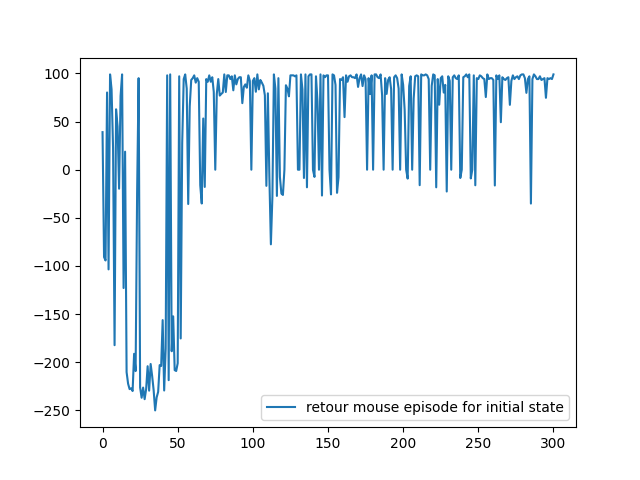
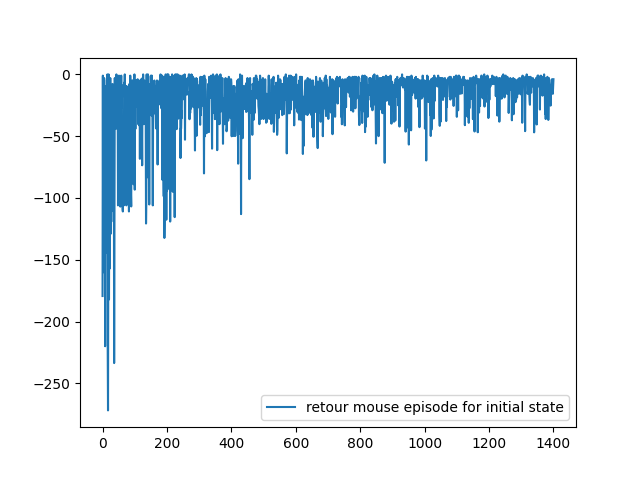
u

diff --git a/actor_critic_cat_mouse/env2.py b/actor_critic_cat_mouse/env2.py
@@ -24,24 +24,23 @@ class grid:
     def transition_cat(self,a:int):
         self.cat_previous = self.cat_pos
         self.cat_pos = self.transition_single_agent(self.cat_pos,a) 
-        reward = self.reward_cat()
-        state_cat = self.state_cat()
-        self.catch+=1.0*(self.cat_pos==self.mouse_pos)
-        return state_cat,reward
+    def transition(self,a):
+        """performs state transition for bith agents
+        """
+        self.transition_cat(a["cat"])
+        self.transition_mouse(a["mouse"])
+        reward = {"cat":self.reward_cat(),"mouse":self.reward_mouse()}
+        s_tab = {"cat":self.state_cat(),"mouse":self.state_mouse()}
+        self.count+=1
+        return s_tab,reward
     def state_mouse(self):
         return  self.mouse_pos[0]*self.Ny+self.mouse_pos[1]
     def transition_mouse(self,a:int):
         self.mouse_previous = self.mouse_pos
         self.mouse_pos = self.transition_single_agent(self.mouse_pos,a) 
-        reward = self.reward_mouse()
-        terminated = self.terminated()
-        self.count+=1
-        state_mouse = self.state_mouse()
-        return state_mouse,reward
     def terminated(self):
         "says if the episode is teminated"
-        cheese_reached = self.mouse_pos==self.target_mouse
-        terminated = cheese_reached
+        terminated = self.mouse_pos==self.target_mouse  or self.cat_pos==self.mouse_pos
         return terminated  
     def truncated(self):
         return self.count>self.max_steps
@@ -56,15 +55,12 @@ class grid:
             s_out = agent_pos
         return s_out
     def reward_cat(self):
-        self.catch+=1*(self.cat_pos==self.mouse_pos)
-        #if self.cat_pos!=self.mouse_pos:
-        #    reward = (-1.0)*((self.cat_pos[0] - self.mouse_pos[0])**2 + (self.cat_pos[1] - self.mouse_pos[1])**2)
-        reward = 0
-        if self.cat_pos==self.mouse_pos:
-            reward = 10
+        #reward = (1.0)*(self.cat_pos==self.mouse_pos)# + (-1.0)*(self.cat_pos == self.cat_previous)
+        reward = (-1.0)*((self.mouse_pos[0] - self.cat_pos[0])**2 + (self.mouse_pos[1] - self.cat_pos[1])**2)# + (-10.0)*(self.mouse_pos==self.mouse_previous)
         return reward
     def reward_mouse(self):
-        reward = (100.0)*(self.target_mouse==self.mouse_pos) + (-10.0)*(self.mouse_pos==self.mouse_previous)
+        reward = (-1.0)*((self.target_mouse[0] - self.mouse_pos[0])**2 + (self.target_mouse[1] - self.mouse_pos[1])**2)# + (-10.0)*(self.mouse_pos==self.mouse_previous)
+        #reward = (10.0)*(self.target_mouse==self.mouse_pos)# + (-10.0)*(self.mouse_pos==self.mouse_previous)
         return reward
     def grid(self):
         s_mouse = self.mouse_pos
@@ -73,5 +69,9 @@ class grid:
         T[s_mouse[0], s_mouse[1]] = 1
         T[s_cat[0], s_cat[1]] = -1
         T[self.target_mouse[0],self.target_mouse[1]] = 5
+        if self.terminated():
+            print(f"termintated, episode {self.count}")
+        print("cat", self.state_cat())
+        print("mouse", self.state_mouse())
         print(T)
         return T

diff --git a/actor_critic_cat_mouse/test.py b/actor_critic_cat_mouse/test.py
@@ -12,21 +12,20 @@ from rep import Representation, Representation_action
 from agent import Cat, Mouse
 import numpy as np
 def test(mouse:Mouse,cat:Mouse,env:grid):
-    mouse.epsilon = 0
     j =0
+    plt.close()
+    while env.terminated():
+        env.reset()
     T = env.grid()
     plt.figure()
     plt.imshow(T)
     plt.savefig(f"image/frame{j}")
-    plt.close()
-    while env.terminated():
-        env.wset()
     n = 0
     while not env.terminated():
         j+=1
         s_tab = {"cat":env.state_cat(),"mouse": env.state_mouse()}
-        _,_ = env.transition_mouse(mouse([s_tab["mouse"]]))
-        _,_ = env.transition_cat(cat(s_tab))
+        action = {"cat":cat(s_tab),"mouse":mouse([s_tab["mouse"]])}
+        env.transition(action)
         T = env.grid()
         plt.figure()
         plt.imshow(T)
@@ -34,8 +33,8 @@ def test(mouse:Mouse,cat:Mouse,env:grid):
         plt.close()
 
 if __name__=="__main__":
-    testmode = False
-    start = 0
+    testmode = True
+    start = 1400
     epsilon = .3
     gamma = .99
     nx = 4
@@ -43,30 +42,31 @@ if __name__=="__main__":
     # large learning rates implies more risk to local minima
     mouse_lr_pi = 1e-3
     mouse_lr_q = 1e-3
-    cat_lr_pi = 1e-6
-    cat_lr_q = 1e-6
+    cat_lr_pi = 1e-3
+    cat_lr_q = 1e-3
     batch_size = 32
     buffer_size = 600
     # learn Q with K iteration, allows more stability. We choose K=1 bc the system is simple.
-    K = 3
-    K_cat = 3
-    n_epochs = 300
+    K = 2
+    K_cat = 2
+    n_epochs =  3000
     loadpath = "loads"
     loadopt = "opt"
     max_steps = 30
     fact = .95
     tau = .01
+    min_eps = .1
 
     env = grid(nx,ny,max_steps = max_steps)
     env.reset()
     mouse = Mouse(env,epsilon = epsilon,buffer_size = buffer_size,lr_pi=mouse_lr_pi, lr_q=mouse_lr_q, tau=tau,K = K)
     cat = Cat(env,epsilon = epsilon, buffer_size = buffer_size, lr_pi=cat_lr_pi, lr_q=cat_lr_q,tau = tau,K = K_cat)
     if start>0:
-        mouse.epsilon = .0
-        cat.epsilon = .0
+        mouse.epsilon = .1
+        cat.epsilon = .1
         mouse.load(start)
         cat.load(start)
     if testmode:
         test(mouse,cat,env)
     else:
-        A2C(env,mouse,cat,batch_size,n_epochs,fact = fact)
+        A2C(env,mouse,cat,batch_size,n_epochs,fact = fact,min_eps=min_eps)

diff --git a/actor_critic_cat_mouse/a22c.py b/actor_critic_cat_mouse/a22c.py
@@ -36,15 +36,13 @@ def A2C(env:grid,
         return_mouse = torch.Tensor([0])
         while not env.terminated() and not env.truncated():
             a_tab = {"cat":cat(s_tab), "mouse":mouse([s_tab["mouse"]])}
-            _,reward_cat = env.transition_cat(a_tab["cat"])
-            _,reward_mouse = env.transition_mouse(a_tab["mouse"])
-            s_tab_prim = {"cat":env.state_cat(),"mouse": env.state_mouse()}
-            cat.buffer.store({"state":s_tab,"action":a_tab,"new_state":s_tab_prim,"reward":reward_cat})
-            mouse.buffer.store({"state":s_tab,"action":a_tab,"new_state":s_tab_prim,"reward":reward_mouse})
+            s_tab_prim,reward = env.transition(a_tab)
+            cat.buffer.store({"state":s_tab,"action":a_tab,"new_state":s_tab_prim,"reward":reward["cat"]})
+            mouse.buffer.store({"state":s_tab,"action":a_tab,"new_state":s_tab_prim,"reward":reward["mouse"]})
             s_tab = s_tab_prim
             n+=1
-            return_cat += reward_cat*gamma**n
-            return_mouse += reward_mouse*gamma**n
+            return_cat += reward["cat"]*(gamma**n)
+            return_mouse += reward["mouse"]*(gamma**n)
             if j<2:
                 continue
             for label,agent in [("mouse",mouse),("cat",cat)]:
@@ -107,15 +105,15 @@ def A2C(env:grid,
         if j%20==0 and j>0:
             cat.save(j)
             mouse.save(j)
-        if j%100==0 and j>=100:
+        if j%100==0 and j>=200:
             plt.figure()
-            plt.plot(retour_episodes["cat"], label="return cat episode for initial state")
+            plt.plot(retour_episodes["cat"][:], label="return cat episode for initial state")
             plt.legend()
             plt.savefig("plot/reward_cat")
             plt.close()
 
             plt.figure()
-            plt.plot(retour_episodes["mouse"], label="retour mouse episode for initial state")
+            plt.plot(retour_episodes["mouse"][:], label="retour mouse episode for initial state")
             plt.legend()
             plt.savefig("plot/reward_mouse")
             plt.close()

diff --git a/actor_critic_cat_mouse/Qfunc.py b/actor_critic_cat_mouse/Qfunc.py
@@ -6,17 +6,18 @@ class Q(nn.Module):
         self.Na = env.Na
         self.Nx = env.Nx
         self.Ny = env.Ny
-        self.linear1 = nn.Linear(2*self.Nx*self.Ny + 2*self.Na,32)
-        self.linear2 = nn.Linear(32,16)
-        self.linear4 = nn.Linear(16,1)
+        self.linear1 = nn.Linear(2*self.Nx*self.Ny + 2*self.Na,16)
+        self.linear2 = nn.Linear(16,16)
+        self.linear3 = nn.Linear(16,1)
         self.actv = nn.ReLU()
     def forward(self, s_cat,s_mouse,a_cat,a_mouse):
         x = torch.cat((s_cat,s_mouse,a_cat,a_mouse),dim=1)
+        #x = torch.cat((s_cat,a_cat),dim=1)
         out = self.linear1(x)
         out = self.actv(out)
         out = self.linear2(out)
         out = self.actv(out)
-        out = self.linear4(out)
+        out = self.linear3(out)
         return out
 class Q2(nn.Module):
     def __init__(self,env):

diff --git a/actor_critic_cat_mouse/policy.py b/actor_critic_cat_mouse/policy.py
@@ -37,11 +37,13 @@ class policy(nn.Module):
         self.Na = env.Na
         self.linear1 = nn.Linear(2*env.Nx*env.Ny,32)
         self.linear2 = nn.Linear(32,16)
+        #self.linear3 = nn.Linear(32,16)
         self.linear4 = nn.Linear(16,self.Na)
         self.actv = nn.ReLU()
         self.rep_cl = Representation(self.Nx,self.Ny)
     def forward(self,s1,s2, logit =False):
         x = torch.cat((self.rep_cl(s1),self.rep_cl(s2)),dim=1)
+        #x = self.rep_cl(s1)
         out = self.linear1(x)
         out = self.actv(out)
         out = self.linear2(out)
